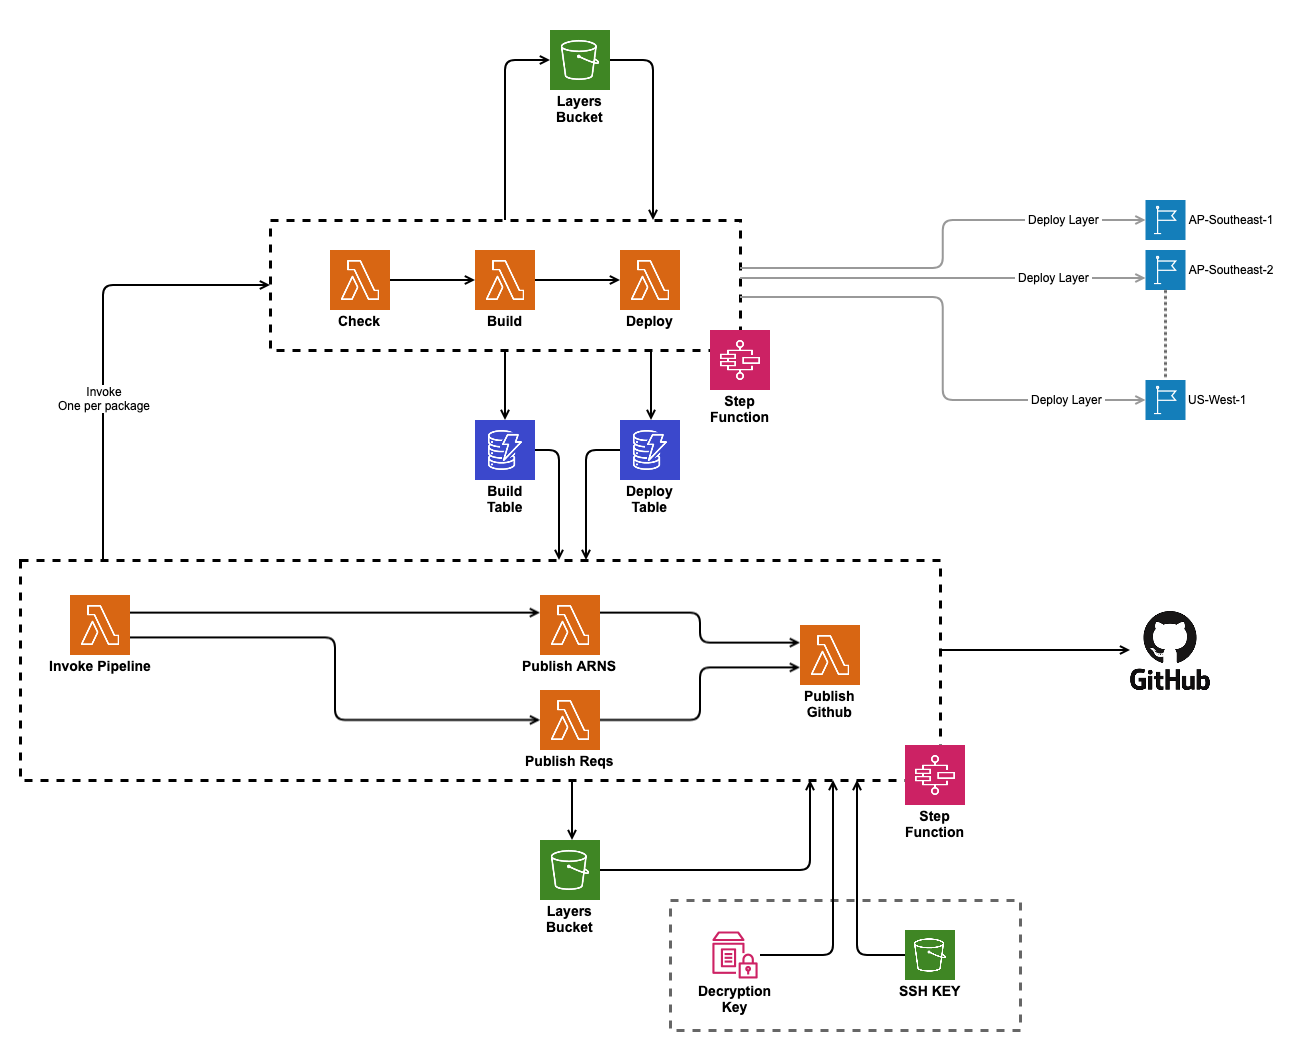
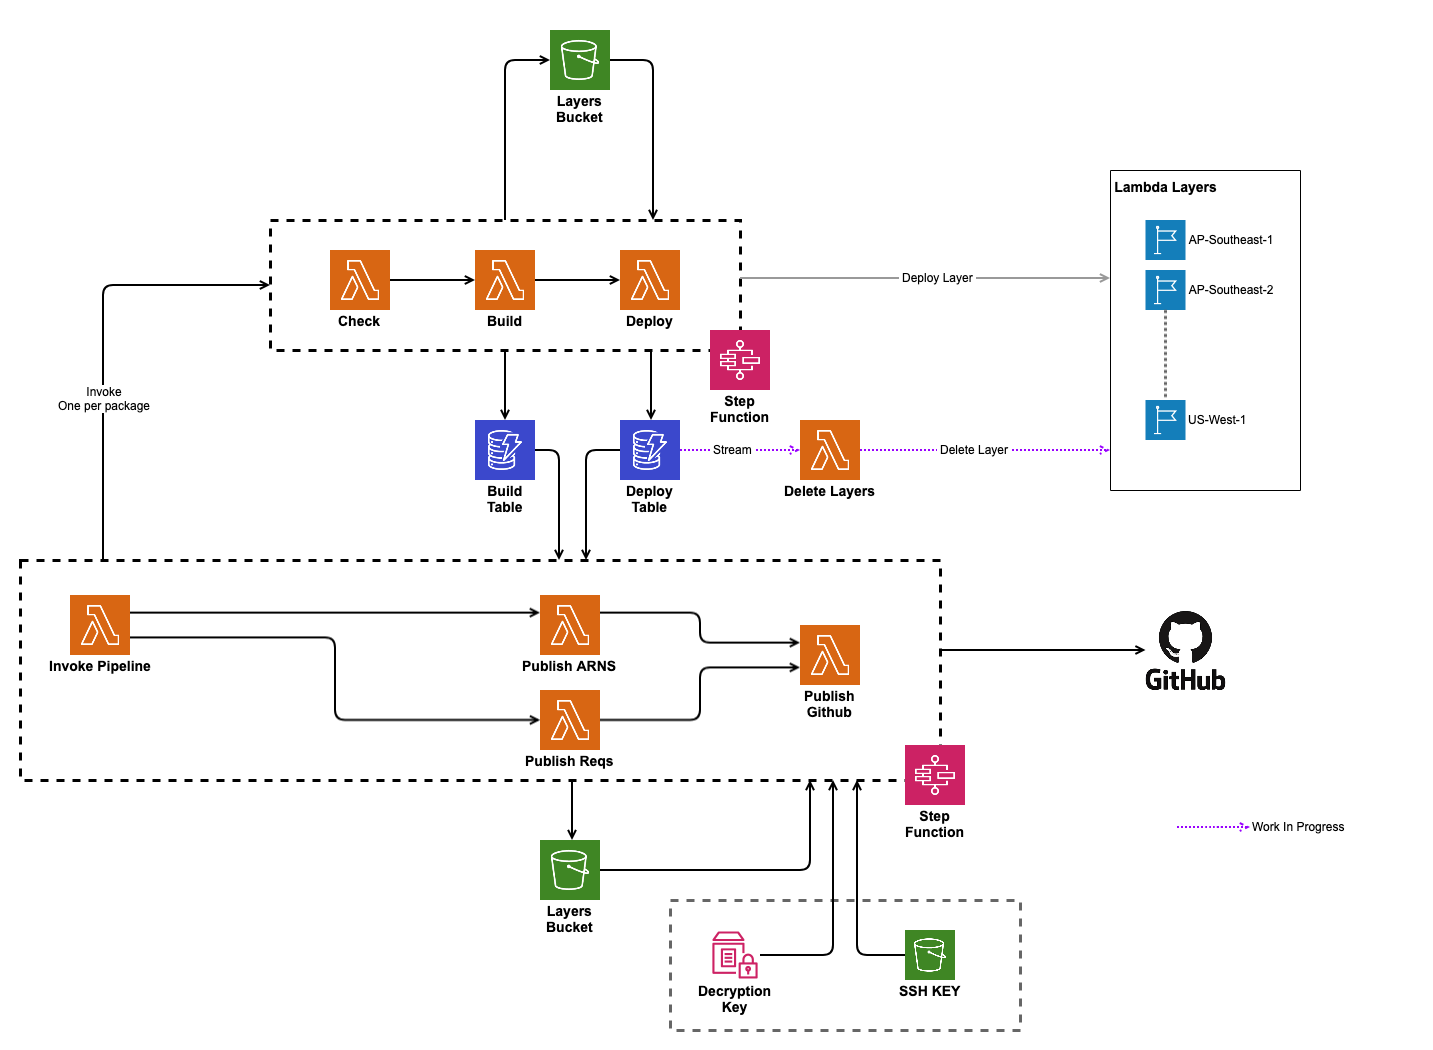
added new arch diagram

diff --git a/README.MD b/README.MD
@@ -10,9 +10,9 @@ A collection of AWS Lambda Layers for Python3.7
 
 [![Updates](https://pyup.io/repos/github/keithrozario/Klayers/shield.svg)](https://pyup.io/repos/github/keithrozario/Klayers/)
 
-Click on badge above to specific package version of latest built layers. 
+Click on badge above to see the specific package version latest built layers. 
 
-Layers are built with the latest package version every Monday at 1:00am (UTC)
+Layers are built with the latest package version (available on PyPI) every Monday at 1:00am (UTC)
 
 # Layer List
 